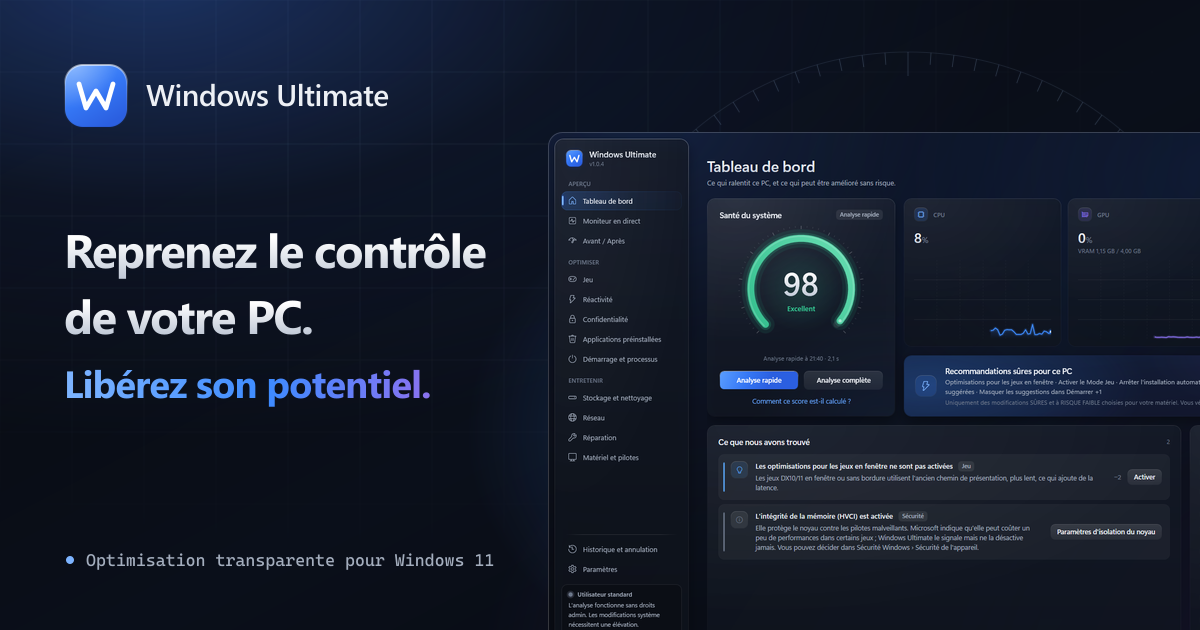
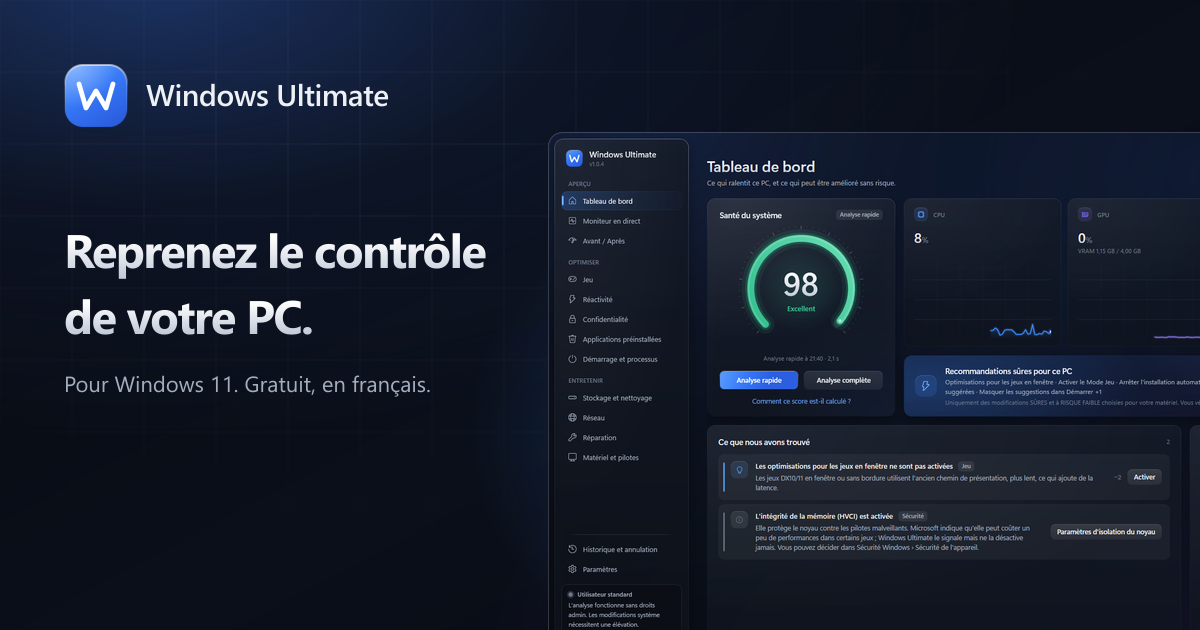
New README, and a plainer social preview
The README now opens with the logo, badges, download link and banner, then
covers why the app exists, real screenshots, getting started, every page,
the safety rules, requirements, an FAQ, developer notes and a French summary.

The og images drop the gradient tagline, the gauge ticks and the dot caption
for one plain line.

Changed region(s): [[0.0308, 0.573, 0.37, 0.6333], [0.0617, 0.8746, 0.4008, 0.9048]]

diff --git a/README.md b/README.md
@@ -1,97 +1,182 @@
+<div align="center">
+
+<img src="website/public/apple-touch-icon.png" width="104" alt="Windows Ultimate logo" />
+
 # Windows Ultimate
 
-A Windows 11 optimization suite (C# / .NET 10 / WPF). It scans the PC, explains what is
-actually slowing it down, and applies only documented, reversible changes — after the user has reviewed them.
+**Find out what is really slowing your PC down, and fix it without breaking Windows.**
 
-The goal: someone installs it, runs a scan, understands exactly what slows their PC down, and improves it
-without risking breaking Windows.
+[![Latest release](https://img.shields.io/github/v/release/lololyeye/WindowsUltimate?style=flat-square&color=3d8bff&label=download)](https://github.com/lololyeye/WindowsUltimate/releases/latest)
+[![Downloads](https://img.shields.io/github/downloads/lololyeye/WindowsUltimate/total?style=flat-square&color=3d8bff)](https://github.com/lololyeye/WindowsUltimate/releases)
+[![Windows 11](https://img.shields.io/badge/Windows-11%20(64--bit)-0a0f1a?style=flat-square&logo=windows)](#-requirements)
+[![.NET 10](https://img.shields.io/badge/.NET-10-0a0f1a?style=flat-square&logo=dotnet)](#%EF%B8%8F-for-developers)
 
-## Principles (enforced in code, not just stated)
+[**⬇ Download for Windows**](https://github.com/lololyeye/WindowsUltimate/releases/latest) · [Website](https://lololyeye.github.io/WindowsUltimate/)
 
-- **Nothing changes without consent.** Every change goes through one path (`TweakApplier` → consent dialog →
-  engine). Moderate-risk and higher changes need an explicit acknowledgement; destructive operations
-  (app removal, network reset, "undo all") need a second confirmation.
-- **Everything is reversible or labelled as not reversible.** Before a change, the engine writes the original
-  value to a write-ahead journal (`%LOCALAPPDATA%\WindowsUltimate\journal`), then applies, then verifies.
-  A failure rolls back that tweak. Undo works per change, per session, or for everything — also after a crash
-  or restart. Operations that cannot be undone (removing an app, emptying caches, resetting the network) are
-  recorded in History as *Not reversible*, with how to recover (e.g. the Microsoft Store link).
-- **Security is never weakened.** No tweak touches Defender, Firewall, UAC, SmartScreen, VBS/HVCI or Windows
-  Update (a unit test checks the catalog for security-critical keys). The privacy page never edits the hosts
-  file or firewall. Telemetry changes are refused on Insider builds, where they would break flighting.
-- **No remote code.** No scripts are downloaded or executed. The only download is the app's own update
-  (see below), and only after the user accepts it. Drivers and firmware are never downloaded, installed or
-  flashed — the app links to official vendor pages and Windows Update.
-- **Personal files are never auto-deleted.** Cleanup only targets caches, temp files and logs, shows the size
-  and file count first, skips files in use, and keeps a history. Large files and duplicates found by the
-  analyzer can only be sent to the Recycle Bin, one at a time, and the last copy of a duplicate is protected.
-- **Runs as a standard user.** Analysis needs no admin rights. System-wide changes are disabled until the user
-  restarts the app elevated.
+<br />
 
-## No invented FPS tweaks
+<img src="website/public/og.png" width="820" alt="Windows Ultimate: take control of your PC. The dashboard, with the health score and what the scan found." />
 
-Every tweak in `TweakCatalog.cs` has: what it changes (exact registry value / plan / task), why it helps,
-the expected impact, disadvantages, restart requirement, how to undo it, a risk level and a source.
-Recommendations depend on detected hardware (e.g. hardware GPU scheduling is only recommended on GPUs where
-it matters; High performance is not recommended on laptops, X3D or hybrid Intel CPUs).
+</div>
 
-Popular "optimizer" tweaks that are placebo or harmful on Windows 11 (timer resolution, HPET, Nagle,
-Win32PrioritySeparation, disabling SysMain, RAM cleaners, core parking, IRQ priority, disabling Spectre
-mitigations/VBS/Defender…) are **not** applied — the Responsiveness page explains why for each one.
+<br />
 
-## Features
+Windows Ultimate is a free Windows 11 app that **scans your PC, explains what is slowing it down, and applies only documented, reversible changes** after you have reviewed them. Every setting it can change says what it does, why it helps, what it costs and how to undo it.
+
+> **Nothing changes without your consent.** The scan runs as a standard user and only reads.
+> Before any change, the original value is saved, so you can undo it later, even after a crash or a restart.
+
+<br />
+
+## ✨ Why Windows Ultimate
+
+|  |  |
+|---|---|
+| 🔍 **It measures first** | A Quick Scan or a Full Analysis (event logs, drivers, disk health) gives a health score with its method shown, and each finding says how much it counts. |
+| ↩ **Everything can be undone** | Each change is written to a journal before it is applied, then checked. Undo one change, a session, or everything. What cannot be undone (removing an app, emptying a cache) is labelled as such. |
+| 🛡 **Security stays on** | No setting touches Defender, the Firewall, UAC, SmartScreen, Memory Integrity (VBS/HVCI) or Windows Update. A unit test checks the catalog for it. |
+| 🧾 **No placebo tweaks** | Timer resolution, HPET, Nagle, RAM cleaners, core parking, disabling SysMain or Spectre mitigations… are not applied. The app explains why each one doesn't help on Windows 11. |
+
+<br />
+
+## 🖼 A look inside
+
+<table>
+  <tr>
+    <td align="center"><img src="website/src/assets/shots/en/win-gaming.png" width="400" alt="Gaming page: analysis and profiles" /><br /><sub><b>Gaming</b>: analysis, overlays and profiles</sub></td>
+    <td align="center"><img src="website/src/assets/shots/en/win-debloat.png" width="400" alt="Debloat page: apps classified by how safe they are to remove" /><br /><sub><b>Debloat</b>: every app classified, system packages locked</sub></td>
+  </tr>
+  <tr>
+    <td align="center"><img src="website/src/assets/shots/en/win-storage.png" width="400" alt="Storage page: cleanup with a preview" /><br /><sub><b>Storage</b>: cleanup with size and file count first</sub></td>
+    <td align="center"><img src="website/src/assets/shots/en/win-repair.png" width="400" alt="Repair page: DISM, SFC and chkdsk with live output" /><br /><sub><b>Repair</b>: DISM, SFC and chkdsk, explained</sub></td>
+  </tr>
+</table>
+
+All screenshots are real captures of the app. The [website](https://lololyeye.github.io/WindowsUltimate/) also walks through a sample optimization session, step by step.
+
+<br />
+
+## 🚀 Get started in 3 steps
+
+1. **Download** `WindowsUltimate-<version>-setup.exe` from the [latest release](https://github.com/lololyeye/WindowsUltimate/releases/latest) and run it.
+   The installer asks for admin rights once to install. The app itself then runs as a standard user.
+2. **Open Windows Ultimate** and click **Quick Scan** on the dashboard (or **Full Analysis** for event logs, drivers and disk health).
+3. **Read what it found**, pick the recommendations you want, review them, and apply. Everything lands in **History & undo**.
+
+> [!NOTE]
+> The installer is not code-signed yet, so Windows SmartScreen may say *"Windows protected your PC"*.
+> Click **More info**, then **Run anyway**. Each release publishes the installer's SHA-256 so you can check it.
+
+Installed copies **update themselves**: when a new version is out, the app shows the version, size and notes, and you choose whether to install it. The download comes from this repository's GitHub releases and its SHA-256 is checked before it runs.
+
+<br />
+
+## 🎨 What it can do
 
 | Page | What it does |
 |---|---|
-| Dashboard | Hardware summary, live CPU/GPU/RAM, health score with its methodology and per-finding penalties, Quick Scan / Full Analysis (event logs, drivers, disk health), one-click *safe* recommendations (still reviewed). |
-| Live monitor | CPU, GPU, RAM, disk, network, temperatures, top processes. Sampling runs only while visible; interval configurable. |
-| Before / After | Synthetic benchmark (idle CPU, CPU single/multi, memory bandwidth, disk, thread wake latency) with noise thresholds, history and comparison. |
-| Gaming | Analysis (driver age, refresh rate vs. max, Game Mode, HAGS, background recording, dual-channel, XMP), overlay detection, profiles (Smart / Competitive / Balanced / Max stability / Normal desktop) with "restore previous". |
-| Responsiveness | Measured causes of lag, symptom → cause guide, evidence-based settings, myths explained. |
-| Privacy | Reversible privacy settings + app-permission review linking to Windows Settings. |
-| Debloat | AppX packages classified Safe / Optional / Advanced / Do not remove; frameworks and system packages are locked; preview + double confirmation. |
-| Startup & processes | Startup entries (Task Manager's own enable/disable mechanism), third-party scheduled tasks, processes (only third-party processes can be ended, with confirmation). |
-| Storage & cleanup | Drives, cleanup with preview, largest folders, large files, duplicate finder (content hash), installed programs, history. |
-| Network | Router vs. internet latency/jitter/loss with diagnosis, Wi-Fi signal/band advice, DNS comparison (honest: DNS does not change game ping), flush DNS, network reset (double confirmation). |
-| Repair | DISM / SFC / chkdsk `/scan` with explanation and live output, Windows Update services, pending updates, disk reliability counters, event-log problems. |
-| Hardware & drivers | Components, driver versions/ages, problem devices with Device Manager codes, official driver sources. |
-| History & undo | Every session and change with old → new values; undo change/session/all; export (zip); restore points as an extra safety net. |
-| Settings | Language (follows Windows by default; English / French), restore-point default, data folder, principles and score methodology. |
+| 📊 **Dashboard** | Hardware summary, live CPU/GPU/RAM, health score with its method and per-finding penalties, Quick Scan / Full Analysis, one-click *safe* recommendations (still reviewed). |
+| 📈 **Live monitor** | CPU, GPU, RAM, disk, network, temperatures, top processes. Sampling only runs while the page is visible, at the interval you set. |
+| ⚖ **Before / After** | A synthetic benchmark (idle CPU, single and multi-core CPU, memory bandwidth, disk, thread wake latency) with noise thresholds, history and comparison. |
+| 🎮 **Gaming** | Driver age, refresh rate vs. max, Game Mode, HAGS, background recording, dual-channel, XMP, overlay detection, and profiles (Smart, Competitive, Balanced, Max stability, Normal desktop) with "restore previous". |
+| ⚡ **Responsiveness** | Measured causes of lag, a symptom → cause guide, evidence-based settings, and the common myths explained. |
+| 🔒 **Privacy** | Reversible privacy settings, plus a review of app permissions that links to Windows Settings. |
+| 🧹 **Debloat** | Apps classified *Safe*, *Optional*, *Advanced* or *Do not remove*. Frameworks and system packages are locked. Preview and double confirmation. |
+| 🚦 **Startup & processes** | Startup entries (with Task Manager's own enable/disable mechanism), third-party scheduled tasks, and processes (only third-party ones can be ended, after a confirmation). |
+| 💾 **Storage & cleanup** | Drives, cleanup with a preview, largest folders, large files, a duplicate finder (by content), installed programs. |
+| 🌐 **Network** | Router vs. internet latency, jitter and loss with a diagnosis, Wi-Fi signal and band advice, a DNS comparison (DNS does not change game ping, and it says so), flush DNS, network reset. |
+| 🔧 **Repair** | DISM, SFC and chkdsk `/scan` with live output, Windows Update services, pending updates, disk reliability counters, event-log problems. |
+| 🖥 **Hardware & drivers** | Components, driver versions and ages, problem devices with their Device Manager codes, official driver sources. |
+| 🕓 **History & undo** | Every session and change with old → new values. Undo a change, a session or everything. Export as a zip. Restore points as an extra safety net. |
+| ⚙ **Settings** | Language (follows Windows; English or French), restore-point default, data folder, the principles and the score method. |
 
-## Design system
+### Recommendations that fit your PC
 
-`Theme/Tokens.xaml` defines the materials (L1 atmosphere → L4 popovers), light (top-edge highlights, low-opacity
-radial lights), shadows, typography and motion (180–300 ms ease-out). `Theme/Controls.xaml` builds every control from
-those tokens and `Controls/Fx.cs` adds hover light/lift, page/toast entrances and loading skeletons. On Windows 11 22H2+
-with transparency effects on, the window uses the native acrylic backdrop (DWM); otherwise it falls back to an opaque
-background (*Settings → Window translucency*). Nothing animates continuously: live charts step once per sample (no slide-in, which made WPF recompose the window
-many times a second), dials skip changes too small to see, and live sampling pauses while the window is minimized.
+Every setting in the catalog has the exact value it changes, why it helps, the expected impact, its drawbacks, whether a restart is needed, how to undo it, a risk level and a source. Recommendations depend on the hardware the scan detects: hardware GPU scheduling is only suggested on GPUs where it matters, and the High performance power plan is not suggested on laptops, X3D CPUs or hybrid Intel CPUs.
 
-## Automatic updates
+<br />
 
-Every push to `master`/`main` runs `.github/workflows/release.yml`: it tests, publishes a self-contained
-build, compiles the Inno Setup installer and creates a GitHub Release `v1.0.<run number>` with the
-installer and its `.sha256` checksum. Release notes are generated from the commit messages.
+## 🔐 Safety rules, enforced in code
 
-When the app starts (Release builds only, and only if *Settings → Check for updates at startup* is on),
-it asks the GitHub API for the latest release of this repository. If it is newer, the user sees the version,
-size and notes and chooses **Update now** or not. On accept, the installer is downloaded from github.com,
-its SHA-256 is checked against the published checksum (a mismatch deletes it), then it runs silently: the app
-closes, is updated in place and reopens. Settings, the change journal and history are kept.
-*Settings → Check now* does the same on demand. The repository must be public for this to work.
+- **One path for every change.** Everything goes through the same consent dialog and engine. Moderate-risk changes need an explicit acknowledgement; destructive ones (removing an app, resetting the network, "undo all") need a second confirmation.
+- **Journal, apply, verify.** The original value is written to `%LOCALAPPDATA%\WindowsUltimate\journal` first, then the change is applied and read back. If it fails, that change is rolled back.
+- **No remote code.** No script is downloaded or run. The only download is the app's own update, after you accept it. Drivers and firmware are never downloaded or flashed: the app links to the vendor's page and Windows Update.
+- **Your files are never deleted automatically.** Cleanup only targets caches, temp files and logs, and skips files in use. Large files and duplicates can only go to the Recycle Bin, one at a time, and the last copy of a duplicate is protected.
+- **Insider builds are respected.** Telemetry changes are refused there, since they would break flighting. The privacy page never edits the hosts file or the firewall.
 
-## Honest limitations
+<br />
 
-- **CPU temperature** is the ACPI thermal zone reported by the firmware; on many desktops it is not the core
-  temperature or is unavailable. GPU temperature comes from NVML (NVIDIA only).
-- **Startup impact** is estimated from the memory of the running process, not from boot tracing.
-- **Restore points**: Windows allows one every 24 h by default; the app says so instead of failing silently.
-  They are an extra layer — the journal is the primary undo mechanism.
-- Synthetic benchmarks don't measure game FPS; they confirm a change didn't make things worse.
+## 💻 Requirements
 
-## Build & run
+| | |
+|---|---|
+| **System** | Windows 11 (build 22000 or later), 64-bit |
+| **Rights** | admin to install; the app runs as a standard user, and system-wide changes need it to be restarted elevated |
+| **Download** | about 45 MB (self-contained, nothing else to install) |
+| **Languages** | English and French |
 
-Requirements: Windows 11, .NET 10 SDK.
+<br />
+
+## ❓ FAQ & troubleshooting
+
+<details>
+<summary><b>Windows says "Windows protected your PC"</b></summary>
+
+The installer is not code-signed yet. Click **More info**, then **Run anyway**. You can compare the installer's SHA-256 with the `.sha256` file published on the release page.
+</details>
+
+<details>
+<summary><b>Some settings are greyed out</b></summary>
+
+System-wide changes need admin rights, and the app starts as a standard user on purpose. Restart it elevated when you want to apply them. The scan itself never needs it.
+</details>
+
+<details>
+<summary><b>Will it make my games run faster?</b></summary>
+
+It finds what is actually holding the PC back (background load, outdated drivers, a monitor running below its refresh rate, single-channel memory…) and fixes what can safely be fixed. It does not promise an FPS gain. The *Before / After* benchmark is there to confirm a change didn't make things worse, not to measure game FPS.
+</details>
+
+<details>
+<summary><b>The CPU temperature looks wrong or is missing</b></summary>
+
+It is the ACPI thermal zone reported by the firmware. On many desktops that is not the core temperature, or it isn't reported at all. GPU temperature comes from NVML, so it is shown on NVIDIA cards only.
+</details>
+
+<details>
+<summary><b>Creating a restore point failed</b></summary>
+
+By default Windows allows one restore point every 24 hours, and the app tells you when that is the reason. Restore points are an extra layer: the journal is what undo relies on.
+</details>
+
+<details>
+<summary><b>How is "startup impact" measured?</b></summary>
+
+It is estimated from the memory the running process uses, not from boot tracing.
+</details>
+
+<details>
+<summary><b>How do I uninstall and revert everything?</b></summary>
+
+Run **History & undo → Undo all** first, then uninstall from Windows Settings. Uninstalling keeps `%LOCALAPPDATA%\WindowsUltimate` (journal, logs, settings); delete that folder if you don't need it anymore.
+</details>
+
+<details>
+<summary><b>Something else went wrong</b></summary>
+
+[Open an issue](https://github.com/lololyeye/WindowsUltimate/issues) with what you did, what you expected and your Windows version. You can attach an export from *History & undo*.
+</details>
+
+<br />
+
+## 🛠 For developers
+
+Windows Ultimate is written in **C#** on **.NET 10** with **WPF**. The engine has no UI dependency and is covered by tests that run sandboxed in `HKCU`.
+
+<details>
+<summary><b>Build from source</b></summary>
+
+Requirements: Windows 11, the .NET 10 SDK, and Inno Setup 6 for the installer.
 
 ```bash
 dotnet build WindowsUltimate.sln
@@ -105,7 +190,7 @@ dotnet test WindowsUltimate.sln
 dotnet run --project src/WindowsUltimate.App
 ```
 
-Installer (Inno Setup 6):
+To build the installer, publish a self-contained build, then compile the Inno Setup script:
 
 ```bash
 dotnet publish src/WindowsUltimate.App -c Release -r win-x64 --self-contained true -o publish/win-x64
@@ -114,20 +199,71 @@ dotnet publish src/WindowsUltimate.App -c Release -r win-x64 --self-contained tr
 ```bash
 iscc installer/WindowsUltimate.iss
 ```
+</details>
 
-Uninstalling keeps `%LOCALAPPDATA%\WindowsUltimate` (journal, logs, settings). Run **History → Undo all**
-before uninstalling if you want every change reverted.
-
-## Layout
+<details>
+<summary><b>How it fits together</b></summary>
 
 ```
-src/WindowsUltimate.Core     engine, journal, catalog, diagnostics, monitoring, services (no UI)
-src/WindowsUltimate.App      WPF shell, design system, view models, views, EN/FR strings
-tests/WindowsUltimate.Tests  engine/journal/rollback tests (sandboxed in HKCU), catalog safety tests
-installer/                   Inno Setup script
+WPF views  (Dashboard · Monitor · Before/After · Gaming · … · History · Settings)
+   ↓  view models
+Services/TweakApplier.cs      the only UI path that changes the system (consent dialog)
+   ↓
+Optimization/OptimizationEngine.cs   journal → apply → verify → rollback on failure
+   ├─ Actions.cs        registry, power plan and scheduled-task actions (capture / restore)
+   └─ TweakCatalog.cs   every setting and its documentation
+Diagnostics/SystemAnalyzer.cs        scan and health score
 ```
 
-Key pieces: `Optimization/OptimizationEngine.cs` (apply → verify → journal → rollback),
-`Optimization/Actions.cs` (registry, power plan, scheduled task actions with capture/restore),
-`Optimization/TweakCatalog.cs` (all tweaks and their documentation), `Diagnostics/SystemAnalyzer.cs`
-(scan and score), `Services/TweakApplier.cs` (the only UI path that changes the system).
+| Folder | What's inside |
+|---|---|
+| `src/WindowsUltimate.Core/` | engine, journal, catalog, diagnostics, monitoring, services (no UI) |
+| `src/WindowsUltimate.App/` | WPF shell, design system (`Theme/Tokens.xaml`, `Theme/Controls.xaml`), view models, views, EN/FR strings |
+| `tests/WindowsUltimate.Tests/` | engine, journal and rollback tests (sandboxed in `HKCU`), catalog safety tests |
+| `installer/` | Inno Setup script |
+| `website/` | the [website](https://lololyeye.github.io/WindowsUltimate/) (Astro) |
+
+**Design system.** `Theme/Tokens.xaml` defines the materials, light, shadows, typography and motion (180–300 ms ease-out), and `Controls/Fx.cs` adds hover, entrances and loading skeletons. On Windows 11 22H2+ with transparency on, the window uses the native acrylic backdrop; otherwise it falls back to an opaque background. Nothing animates continuously, and live sampling pauses while the window is minimized.
+</details>
+
+<details>
+<summary><b>Releases and updates</b></summary>
+
+Every push to `master` runs [`.github/workflows/release.yml`](.github/workflows/release.yml): it runs the tests, publishes a self-contained build, compiles the installer and creates a GitHub Release `v1.0.<run number>` with the installer and its `.sha256`. The notes come from the commit messages. Changes to Markdown files and to `website/` don't trigger a release.
+
+At startup (Release builds only, if *Settings → Check for updates at startup* is on), the app asks the GitHub API for the latest release. If you accept the update, the installer is downloaded from github.com, its SHA-256 is checked against the published one (a mismatch deletes it), then it runs silently: the app closes, updates in place and reopens. Settings, the journal and history are kept.
+</details>
+
+<br />
+
+## 🙏 Built with
+
+- **.NET 10** and **WPF**, with `System.Management`, `System.Diagnostics.EventLog` and `System.ServiceProcess.ServiceController`.
+- **NVML** (NVIDIA) for GPU temperature, when it is available.
+- **xUnit** for the tests, **Inno Setup 6** for the installer, **Astro** for the website.
+
+<br />
+
+<details>
+<summary><b>🇫🇷 En français</b></summary>
+
+<br />
+
+**Windows Ultimate** est une application gratuite pour Windows 11 qui **analyse votre PC, explique ce qui le ralentit, et n'applique que des réglages documentés et réversibles**, après que vous les avez vérifiés. Rien ne change sans votre accord : l'analyse tourne en utilisateur standard et ne fait que lire.
+
+- **Tout s'annule** : chaque modification est d'abord notée dans un journal, puis appliquée et vérifiée. Annulez un changement, une session ou tout, même après un plantage ou un redémarrage.
+- **La sécurité reste en place** : aucun réglage ne touche Defender, le Pare-feu, l'UAC, SmartScreen, l'intégrité de la mémoire ou Windows Update.
+- **Pas de faux réglages** : timer resolution, HPET, Nagle, nettoyeurs de RAM… ne sont pas appliqués, et l'application explique pourquoi.
+- **14 pages** : tableau de bord, moniteur, avant/après, jeu, réactivité, confidentialité, applications préinstallées, démarrage, stockage, réseau, réparation, matériel et pilotes, historique, paramètres.
+
+**Installation** : téléchargez `WindowsUltimate-<version>-setup.exe` depuis la [dernière version](https://github.com/lololyeye/WindowsUltimate/releases/latest) et lancez-le (droits admin demandés une fois pour l'installation). Si Windows affiche « Windows a protégé votre ordinateur », cliquez sur **Informations complémentaires** puis **Exécuter quand même** (l'installateur n'est pas encore signé). L'application est entièrement en français, et le [site](https://lololyeye.github.io/WindowsUltimate/fr/) aussi.
+
+</details>
+
+<br />
+
+<div align="center">
+
+<sub>Made by zero. Also by me: <a href="https://github.com/lololyeye/aoze">Aoze</a>, to make your images, GIFs and clips look better.</sub>
+
+</div>
